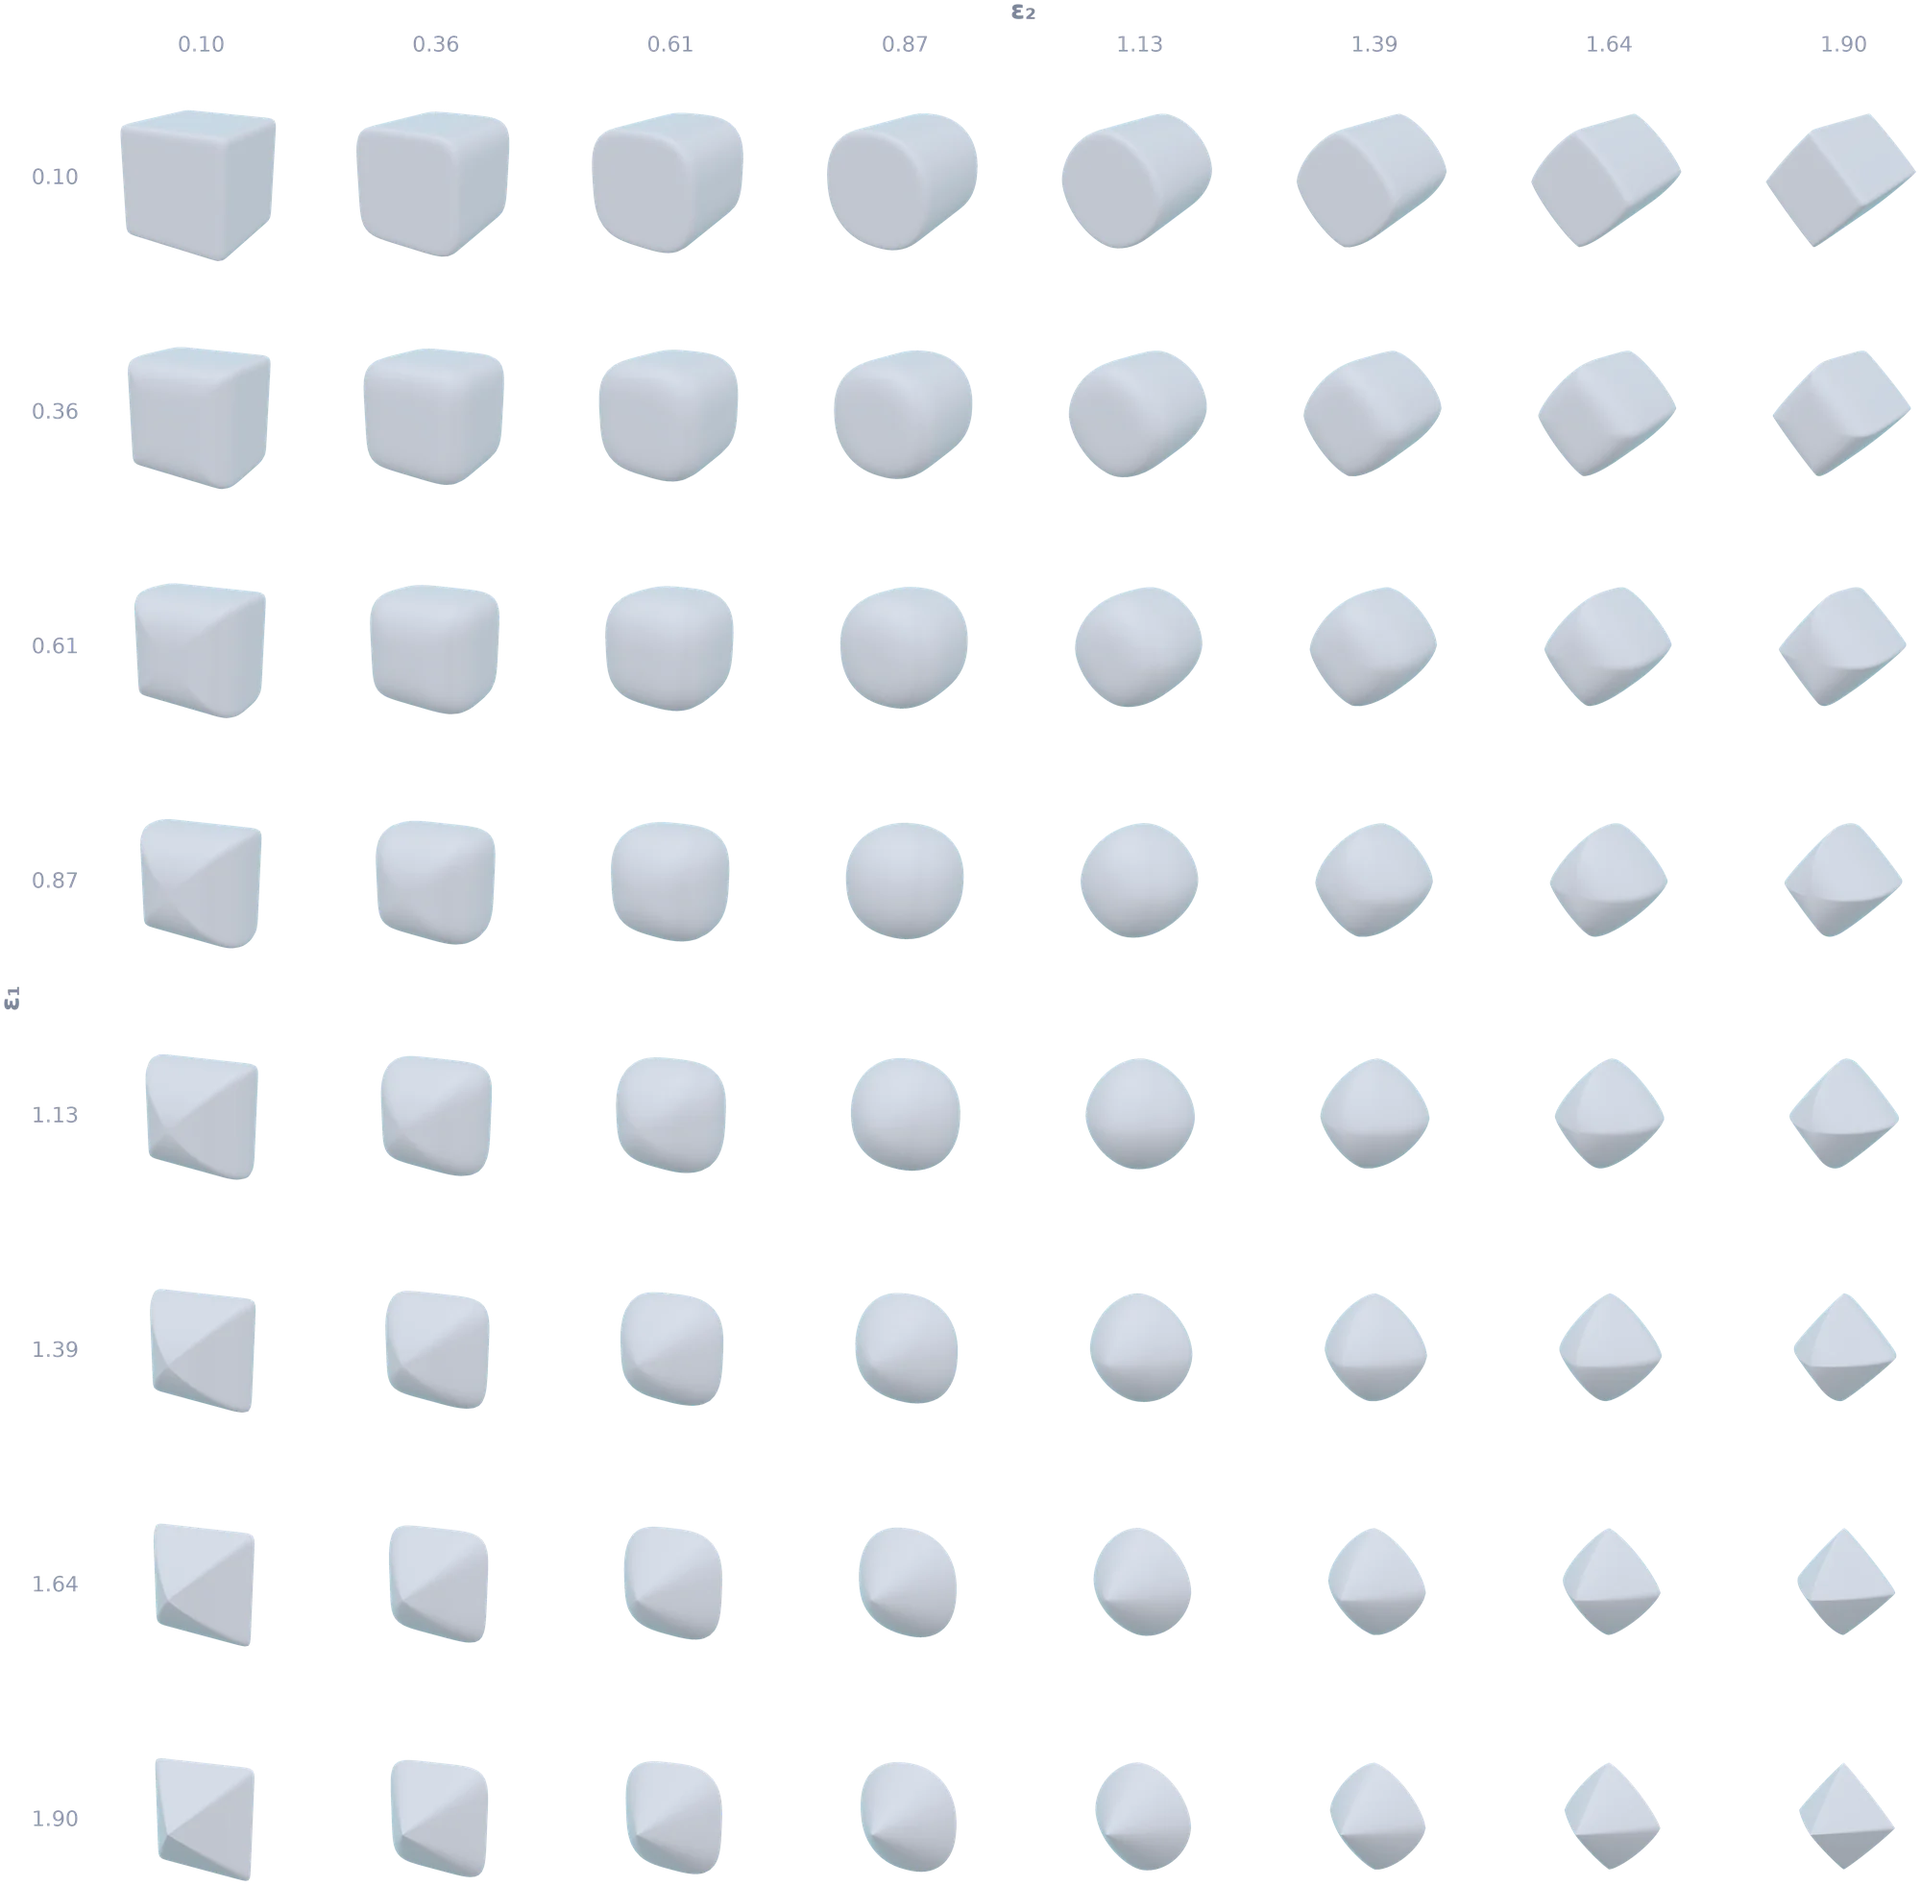
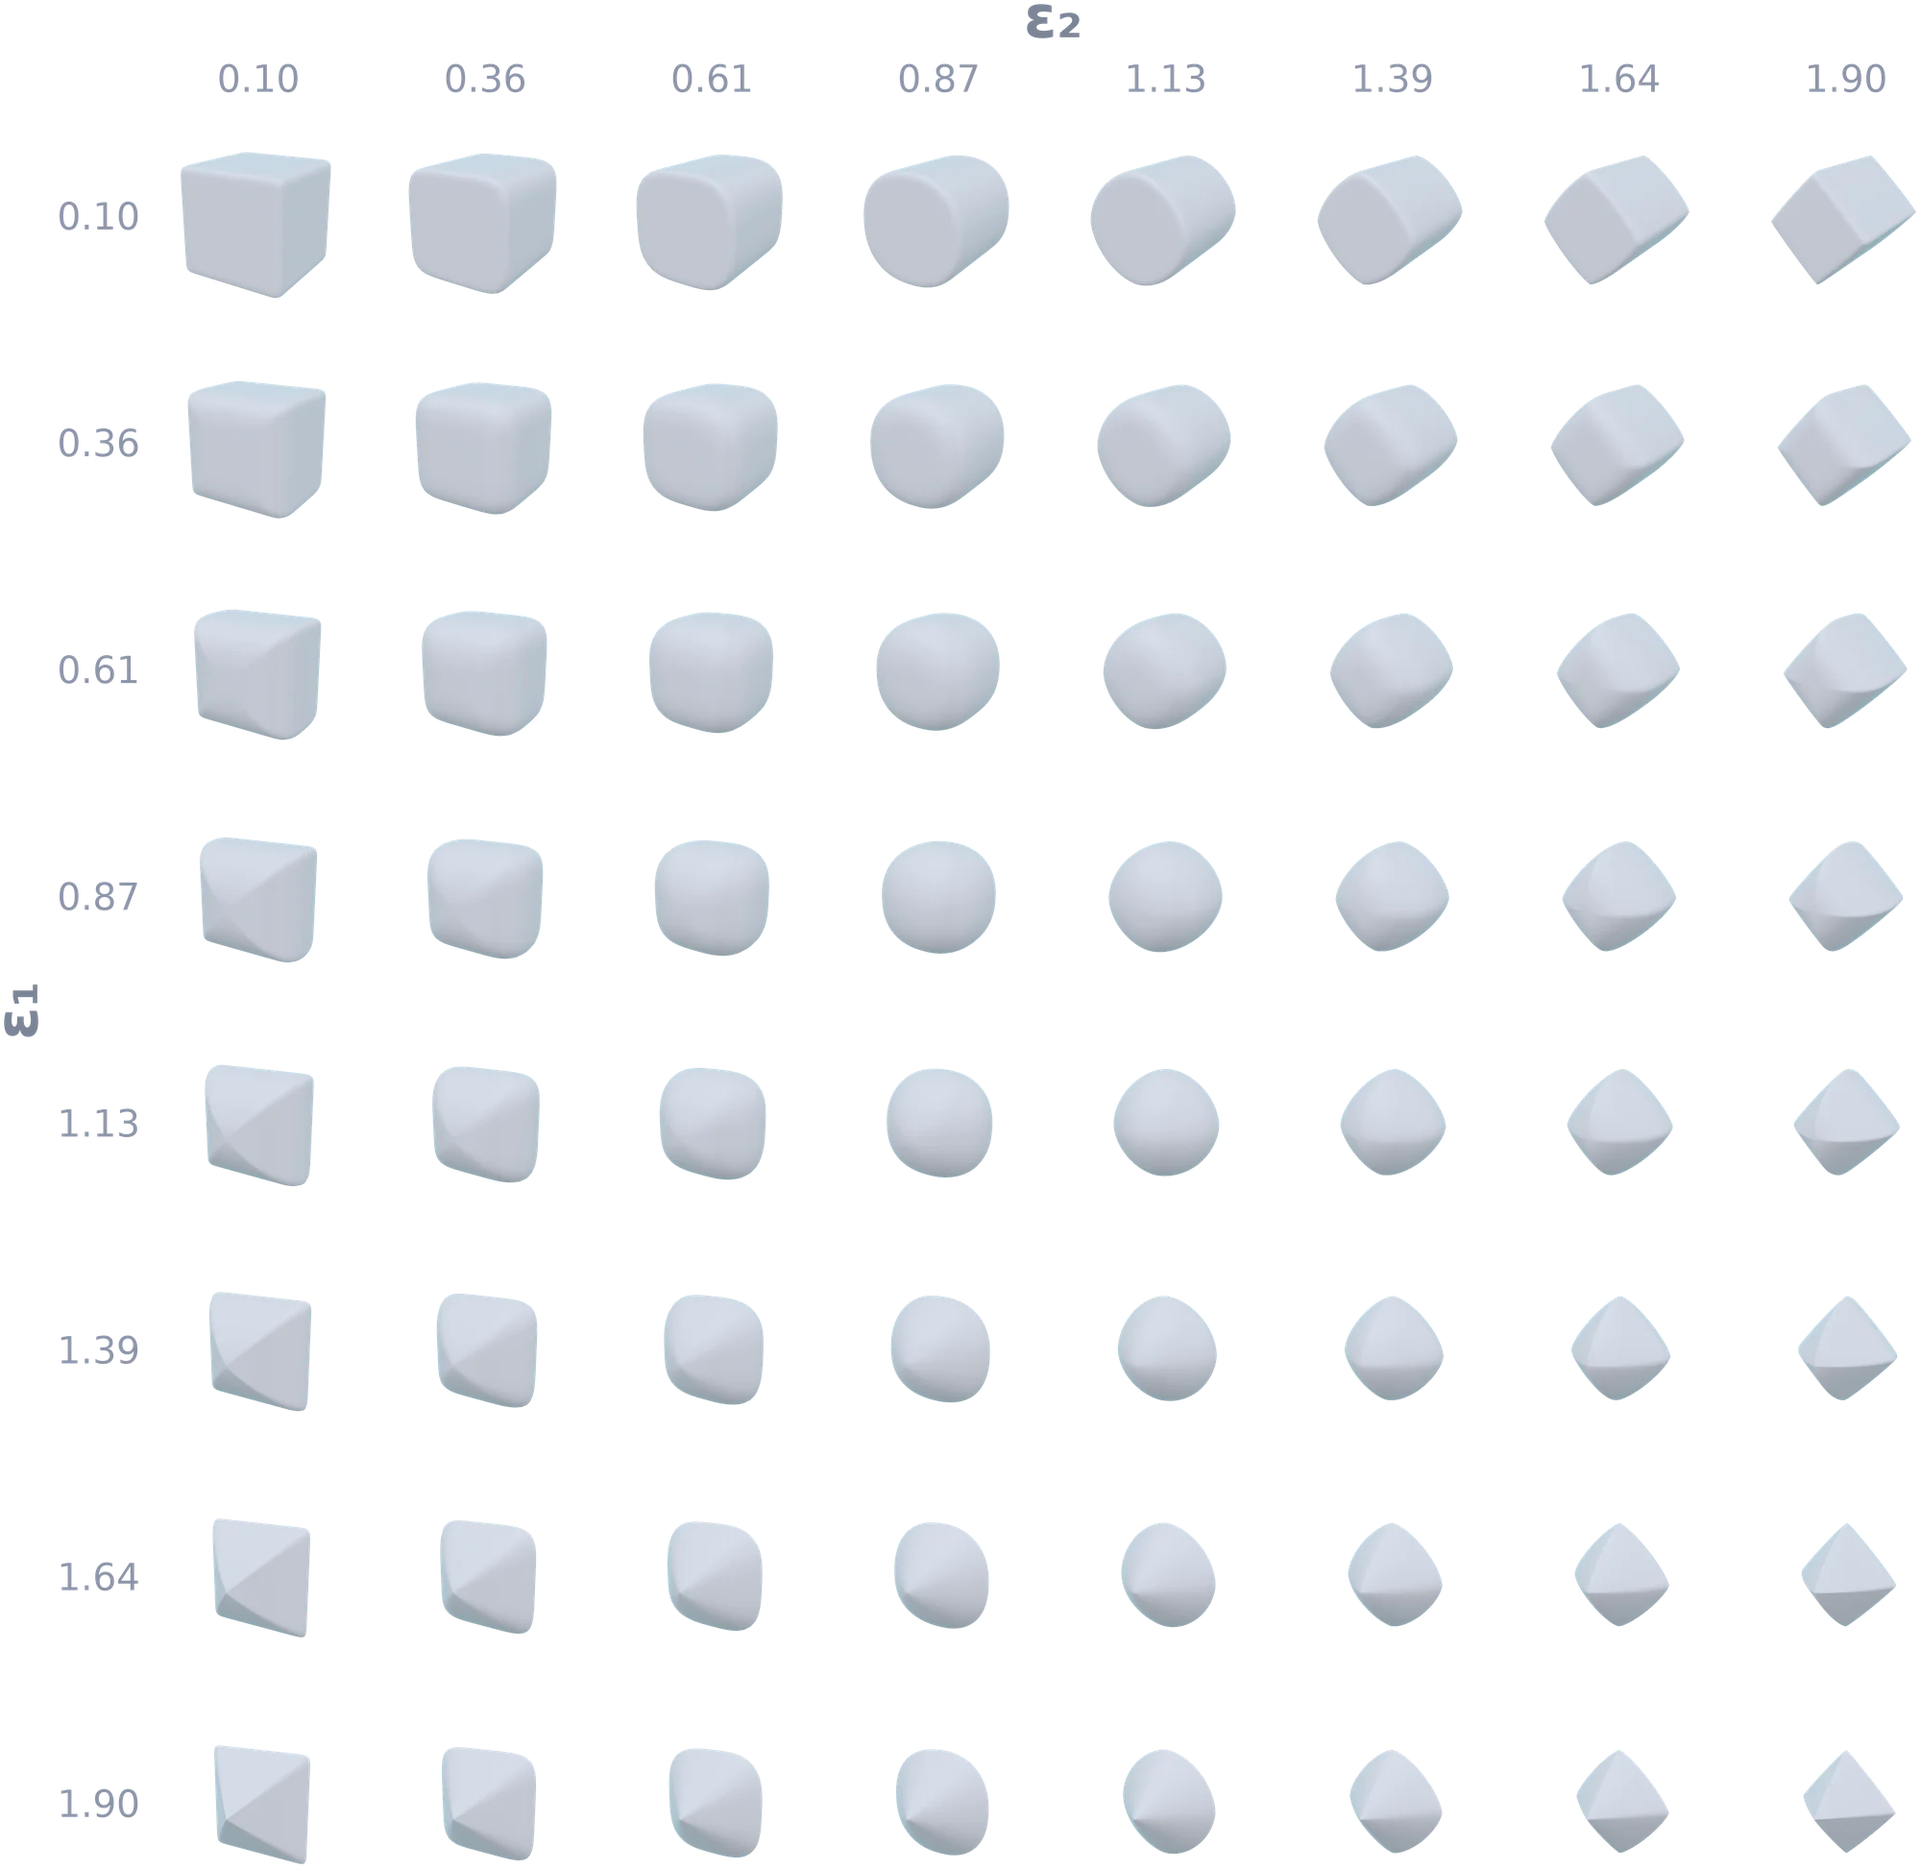
fix(docs): enlarge the superquadric shape-family axis text
The 8x8 sweep composes to about 6,600px and publishes at 2000px, a 0.30
downscale, so its labels arrived at 21.5px (axis values) and 26.1px (the
epsilon titles), below the ~31px captions of the other figures.

compose.matrix now sizes values at pw // 6, publishing at about 38px, and
titles at pw / 3.8, about 60px. The titles are sized by glyph height rather
than font size: an axis named by a Greek letter has lowercase height, so at
pw // 5 its ink was only 0.91x the height of the digits beneath it and still
read smaller. At pw / 3.8 it is 1.20x. matrix has one caller, this figure.

Claude-Session: https://claude.ai/code/session_01Feb3yoQjHYvNcwnLccMKf4

diff --git a/docs/_figures/compose.py b/docs/_figures/compose.py
@@ -227,9 +227,13 @@ def matrix(
 
     # Sized from the panel, not in absolute pixels: a sweep composes to several
     # thousand pixels and is then downscaled by save(), so a fixed 30px label
-    # arrives at the reader under 10px.
-    f_val = _font(max(24, pw // 11))
-    f_title = _font(max(28, pw // 9), bold=True)
+    # arrives at the reader under 10px. With 760px panels in an 8x8 sweep the
+    # values publish at about 38px, above the ~31px captions of other figures.
+    # Titles are sized by glyph height, not font size: an axis named by a Greek
+    # letter has lowercase height, so at a merely larger font it still reads
+    # smaller than its own digits. pw / 3.8 draws it at 1.2x their ink height.
+    f_val = _font(max(24, pw // 6))
+    f_title = _font(max(28, round(pw / 3.8)), bold=True)
 
     probe = ImageDraw.Draw(Image.new("RGBA", (1, 1)))
     gut_w = max(_text_width(probe, v, f_val) for v in row_values) + 26
